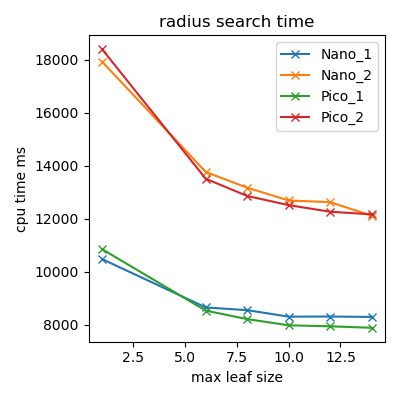
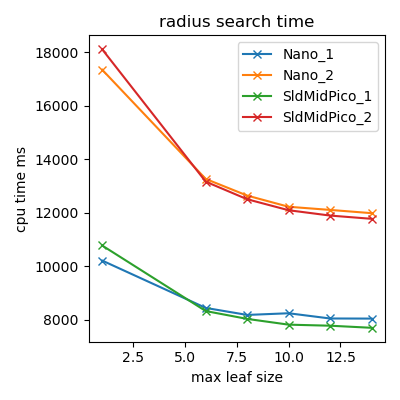
The benchmark now represents v0.5.2.

diff --git a/docs/benchmark.md b/docs/benchmark.md
@@ -18,22 +18,19 @@ Both have been generated using a LiDAR scanner and represent different types of 
 
 The different KdTree implementations are compared to each other with respect to the running times of the build, radius search and knn search algorithms, while fixing certain parameters. The speed of each algorithm is plotted against the leaf size of the tree. Each algorithm sets the following parameters:
 
-* Build algorithm: Dimensions known at compile time or run time.
-* Radius search algorithm: The radius in meters divided by 4 (0.25m and 0.5m).
+* Build algorithm: Compile-time vs. run-time tree dimension for the following building techniques:
+  * Nanoflann Midpoint variation.
+  * PicoTree Sliding Midpoint (along the longest axis).
+  * PicoTree Longest Axis Median.
+* Radius search algorithm: The radius in meters divided by 4 (i.e. 0.25m and 0.5m).
 * Knn algorithm: The amount of neighbors searched.
+  * For a "special" case of the knn algorithm, where `k` is set to `1`, the search speed is compared with respect to the three previously mentioned tree building techniques.
 
-Note that the run time describes a single invocation of the build algorithm and n invocations of the others.
-
-Results were generated on: 20-09-2020 using MinGW GCC 10.1
-
-For a "special" case of the knn algorithm, where `k` is set to `1`, the search speed is compared with respect to different tree building techniques:
-* Nanoflann Midpoint variation.
-* PicoTree Sliding Midpoint (along the longest axis).
-* PicoTree Longest Axis Median.
+Note that the run time describes a single invocation of a build algorithm and n invocations of the others.
 
 It is interesting to see that finding a single nearest neighbor can be quite a bit faster using the Longest Axis Median splitting technique. However, building the tree or querying multiple neighbors is slower. The extra time it takes to build the tree is no longer a factor when the tree is queried multiple times (on the test sets this was about `2n-4n` times). This means the splitting technique can be useful in combination with an algorithm like [ICP](https://en.wikipedia.org/wiki/Iterative_closest_point).
 
-Results were generated on: 01-10-2020 using MinGW GCC 10.1
+Results were generated on: 20-12-2020 using MinGW GCC 10.1.
 
 ## #25 - Würzburg marketplace.
 
